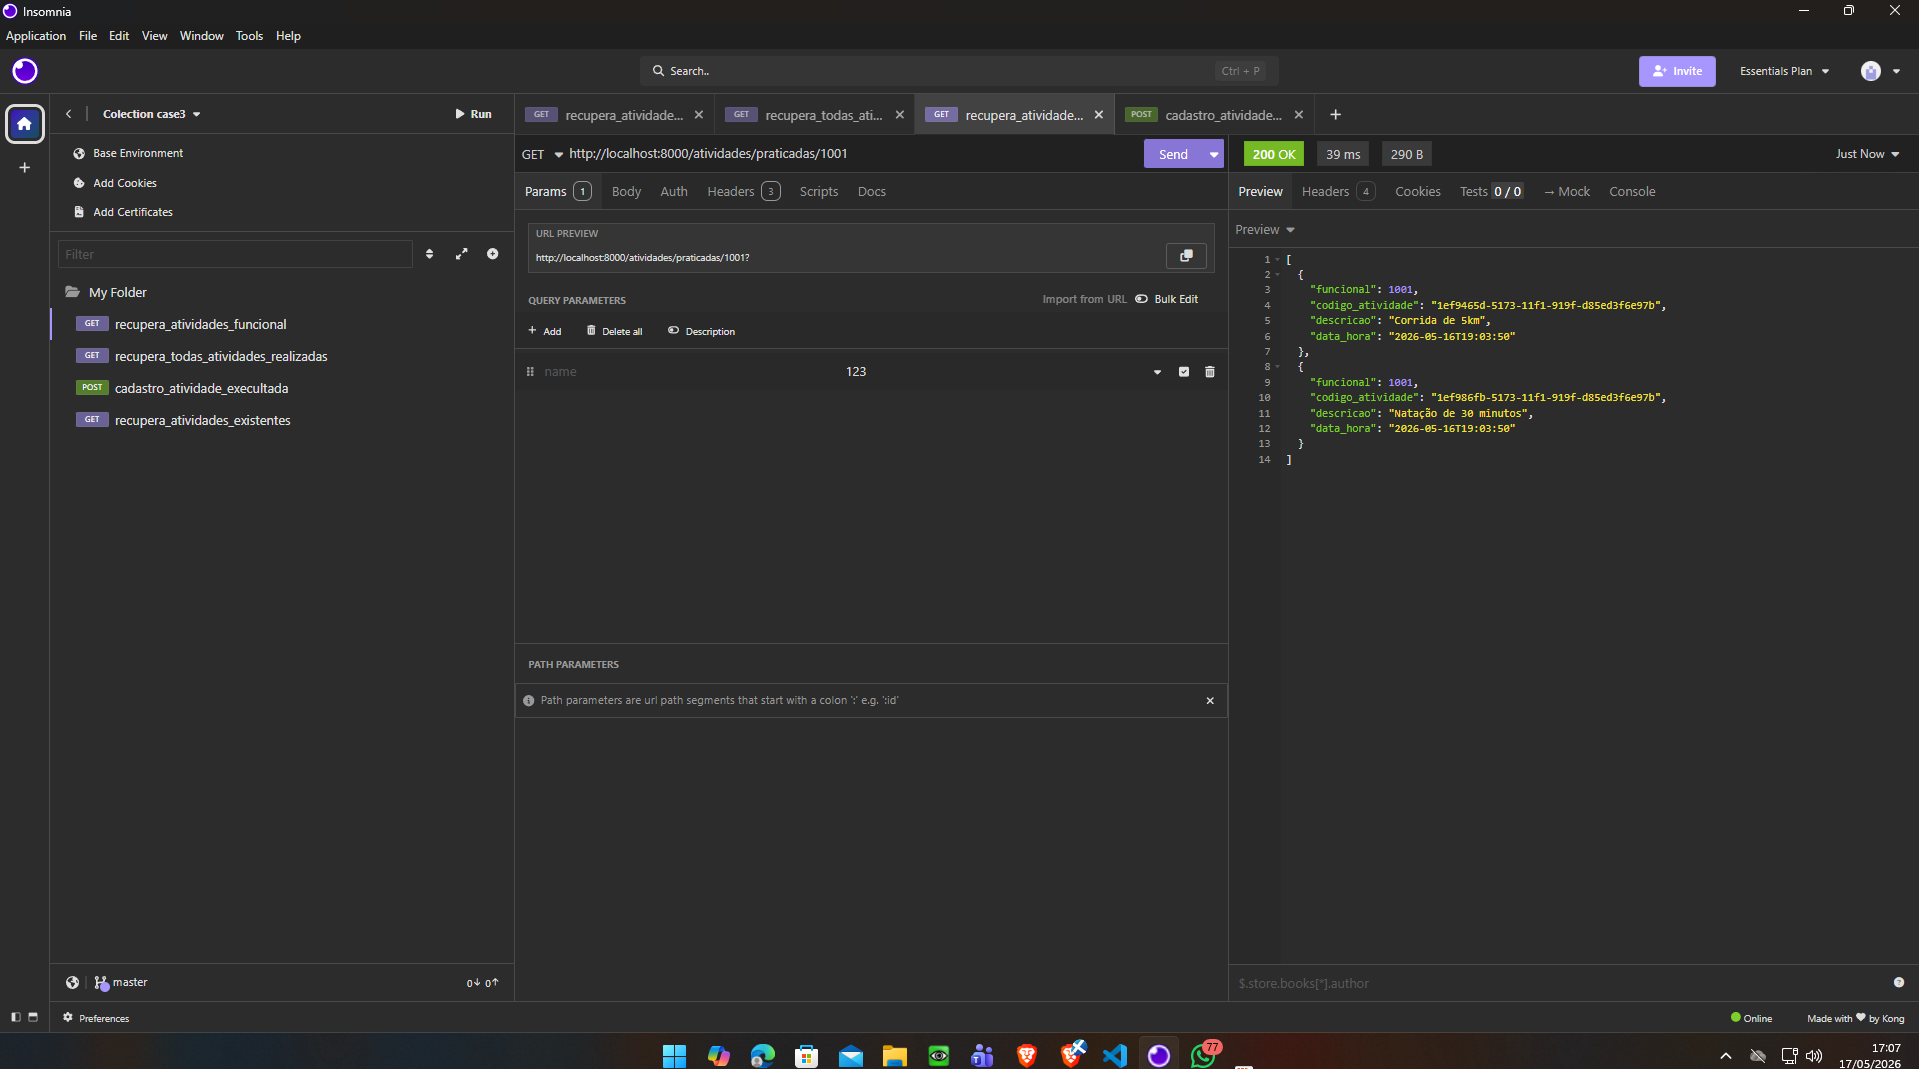
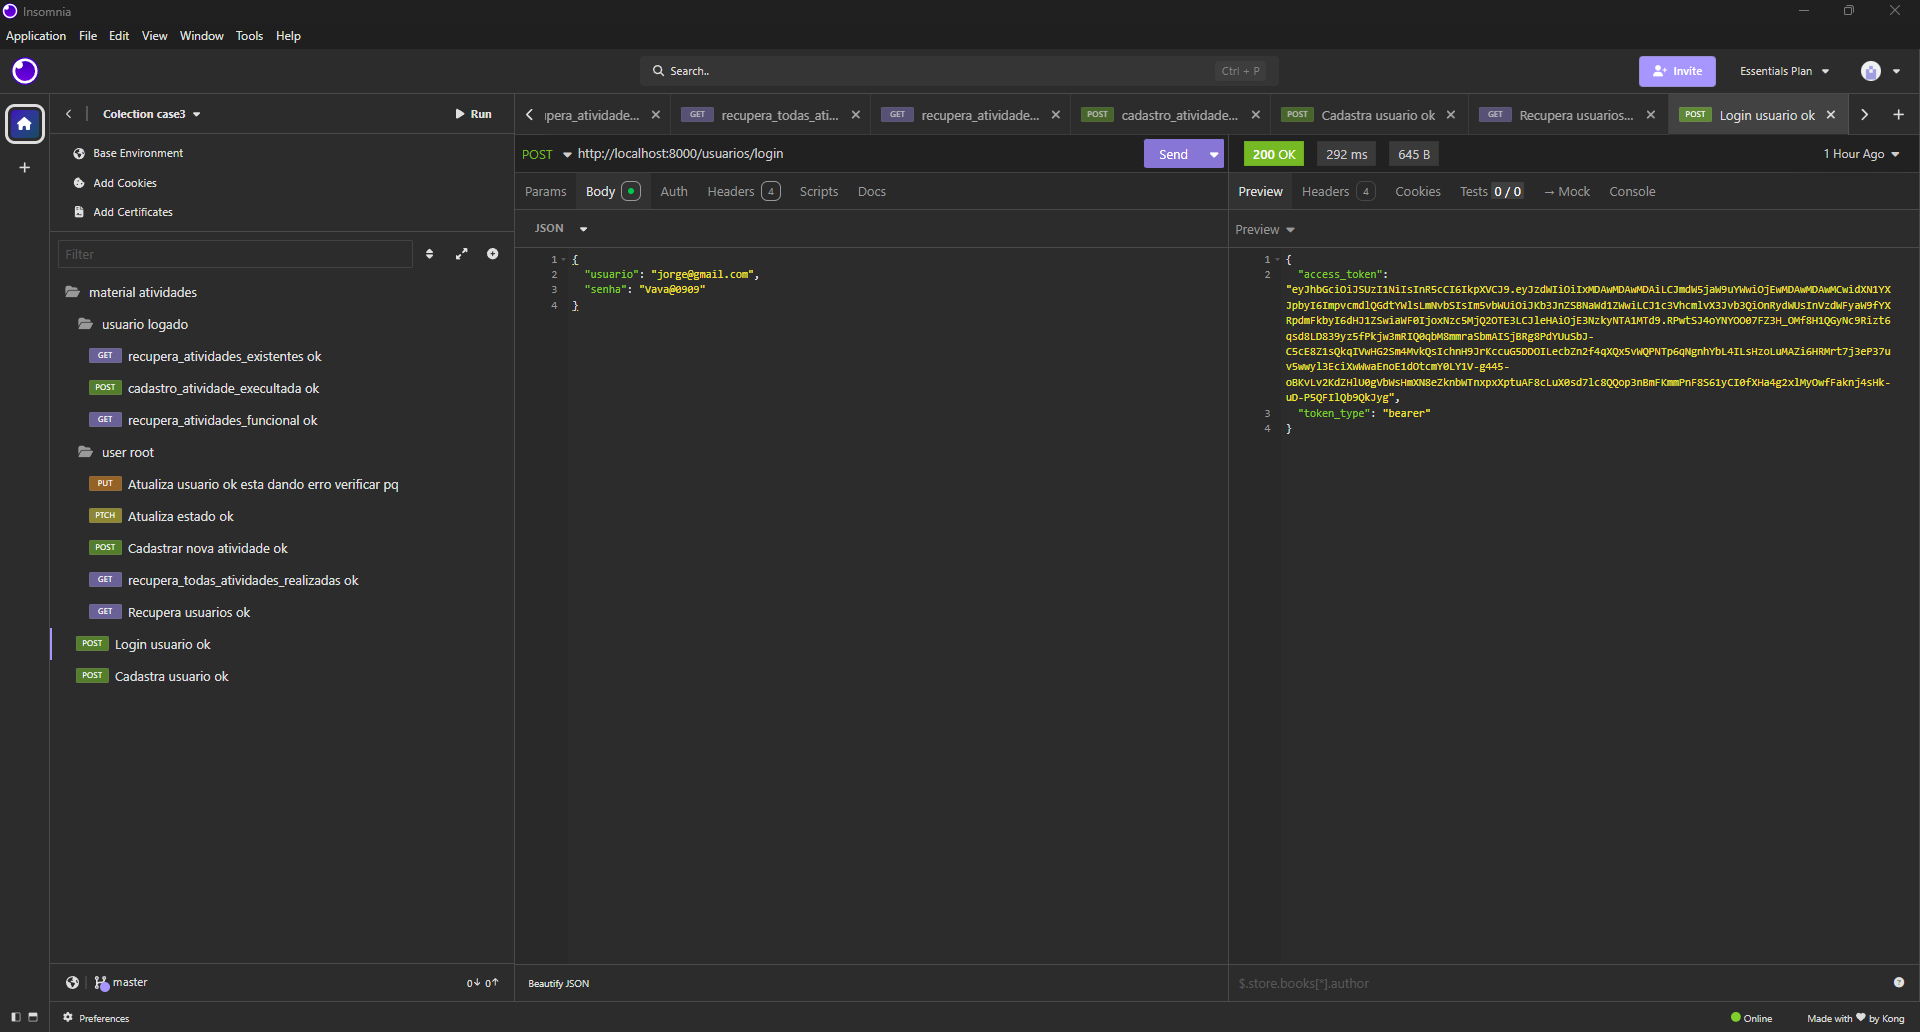
chore e doc: documentação finalizada e sistema 2.0 feito

diff --git a/Docs/README.md b/Docs/README.md
@@ -83,6 +83,16 @@ source .venv/bin/activate
 pip install -r requirements.txt
 ```
 
+### Gerar chaves
+
+```bash
+python "security\generate_keys.py"
+```
+
+com isso você ira grar um par de chaves sendo uma publica e uma privada, a publica pode vir servir para seu futuro frontend enquanto a privada serve exclusivamente para o seu backend, aonde você ir fazer o apontamento da mesma em suas variaveis de ambiente
+
+
+
 ### Rodar servidor
 
 ```bash
@@ -115,6 +125,9 @@ DB_PASSWORD=
 DB_HOST=
 DB_PORT=
 DB_NAME=
+API_KEY_GEMINI=
+PRIVATE_KEY_PATH=
+PUBLIC_KEY_PATH=
 ```
 
 ---
@@ -123,11 +136,13 @@ DB_NAME=
 
 A API gerencia:
 
-- autenticação de usuários (será adicionado na versão 2.0)
+- autenticação de usuários
 - cadastro de atividades físicas
 - associação de atividades por categoria/tag
 - registro de atividades executadas
 - consulta de histórico
+- gerenciamento de usuários
+- gerenciamento de tags
 
 ---
 
@@ -160,7 +175,7 @@ Essa separação permite:
 - Python
 - Pydantic
 - SQLAlchemy
-- JWT (adicionado na versão 2.0)
+- JWT
 - MySQL
 - Pytest
 
@@ -205,7 +220,7 @@ Escolhido por:
 - consistência transacional
 - ampla adoção no mercado
 
-## JWT (versão 2.0)
+## JWT
 
 Escolhido para:
 
@@ -220,6 +235,7 @@ Escolhido para:
 ```bash
 API-Olympus/
 ├── backend/
+├── database/
 └── docs/
 ```
 
@@ -230,17 +246,17 @@ API-Olympus/
 ```bash
 backend/
 ├── .venv/
+├── security/
 ├── .env
 ├── main.py
 ├── src/
 │   ├── config/
 │   ├── controllers/
 │   ├── interfaces/
-│   ├── middlewares/ (será adicionado na versão 2.0)
+│   ├── middlewares/
 │   ├── models/
 │   ├── routes/
-│   ├── services/
-│   └── validators/
+│   └── services/ 
 └── tests/
 ```
 
@@ -263,6 +279,18 @@ Controla o fluxo das requisições HTTP.
 
 ---
 
+### `interfaces/`
+
+construção dos schemas e da doc para sweggerAPI.
+
+---
+
+### `middlweares/`
+
+interceptador para gerenciamento de tokenJWT.
+
+---
+
 ### `models/`
 
 Entidades e representação do banco.
@@ -275,21 +303,9 @@ Contém a lógica de negócio.
 
 ---
 
-### `middlewares/`
-
-Interceptação e segurança.
-
----
-
 ### `routes/`
 
 Definição dos endpoints.
-
----
-
-### `validators/`
-
-Validações e regras de entrada.
 
 ---
 
@@ -301,15 +317,39 @@ Testes automatizados da aplicação.
 
 # 🧐 Exemplos de Uso
 
-### Recupera lista de atividades existentes
+### Cadastro
 ![alt text](image.png)
 
-### Recupera lista de atividades execultadas
+### login
+![alt text](image-1.png)
+
+### historico de atividades e comentario da IA
 ![alt text](image-2.png)
 
+### atividades existentes
+![alt text](image-3.png)
 
-### Recupera lista de atividades execultadas por funcional
-![alt text](image-1.png)
+### cadastro de novas atividades
+![alt text](image-4.png)
+
+### lista de todos os usuários
+![alt text](image-5.png)
+
+### lista de todas as atividades
+![alt text](image-6.png)
+
+### cadastro de nova atividade
+![alt text](image-7.png)
+
+### atualização de estado sendo tanto cadastro ativado ou usuario root
+![alt text](image-8.png)
+
+### atualização de informações do usuario
+![alt text](image-9.png)
+
+
+
+
 
 
 ### Cadastra atividades execultadas
@@ -321,9 +361,8 @@ Testes automatizados da aplicação.
 
 # 🚧 Melhorias Futuras
 
-- refresh token
-- OAuth2
-- rate limiting
+- cada usuário poder ter a sua prorpia lista de exercícios fisicos
+- construção do frontend
 - cache com Redis
 - containerização com Docker
 - CI/CD com GitHub Actions
@@ -333,11 +372,8 @@ Testes automatizados da aplicação.
 
 # 🔮 Pontos de Observação
 
-- a API poderia contar com um sistema de login aonde camuflaria a funcional do usuario por meio de um JWT ou ainda usando um azure para assim a funcional vier camuflada
-- poderiam se existir mais tipos de usuarios alem de mais informações sobre o mesmo, podendo essas infromações serem preenchidas de forma manual ou recuperadas por intermedio de uma API de email como a do google, hotmail....
-- o usuario sendo do tipo root, semelhante ao que se encontra comentado, poderia ter outras atualizações, como caso o sistema vier ser comeercializado, desabilitando o mesmo atraves de pquenos comandos, ou podendo por exemplo criar outros tipos de esportes como calisthenics, skate....
-- ainda nos dias atuais poderiamos fazer um monitoramento de forma mais aprofundada atraves dos comentarios dos usuarios podendo fazer uma analise por meio de IAs trazendo possiveis previsibilidades de resultdos futuros caso a pessoa continue seguindo um determinado ritmo
-- na recuperação de lista de todas as atividade execultadas dependendo do caso poderia vim ter sido feita por meio de paginação
-- no cadastro da atividade se pensarmos em um contexto geral poderia vir possuir numeros e letras, todavia no caso do case a unica verificação colocada foi garantir que a mesma fosse devidamente preenchida com validação de uma regex sndo composto por intermedio de 9 números
+- o usuario poderia vir ser criado apartir do consumo de APIs de emails reais como hotmail e gmail
+- poderiamos aplicar sistemas de observabilidade com datadog para termos uma noção exata do que esta acontecendo afim de se ter um ponto factual e termos um acompanhamento de maior proximidade com os nossos usuarios
+- no cadastro da atividade se pensarmos em um contexto geral a funcional poderia vir possuir numeros e letras, todavia no caso do case a unica verificação colocada foi garantir que a mesma fosse devidamente preenchida com validação de uma regex sndo composto por intermedio de 9 números
 
 ---
